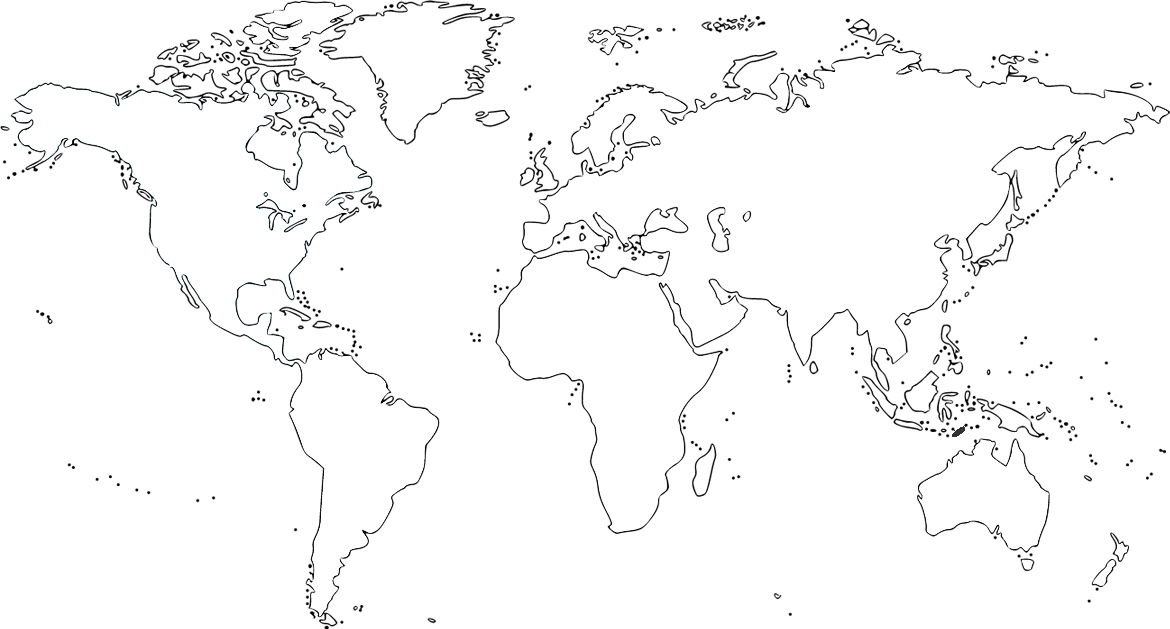
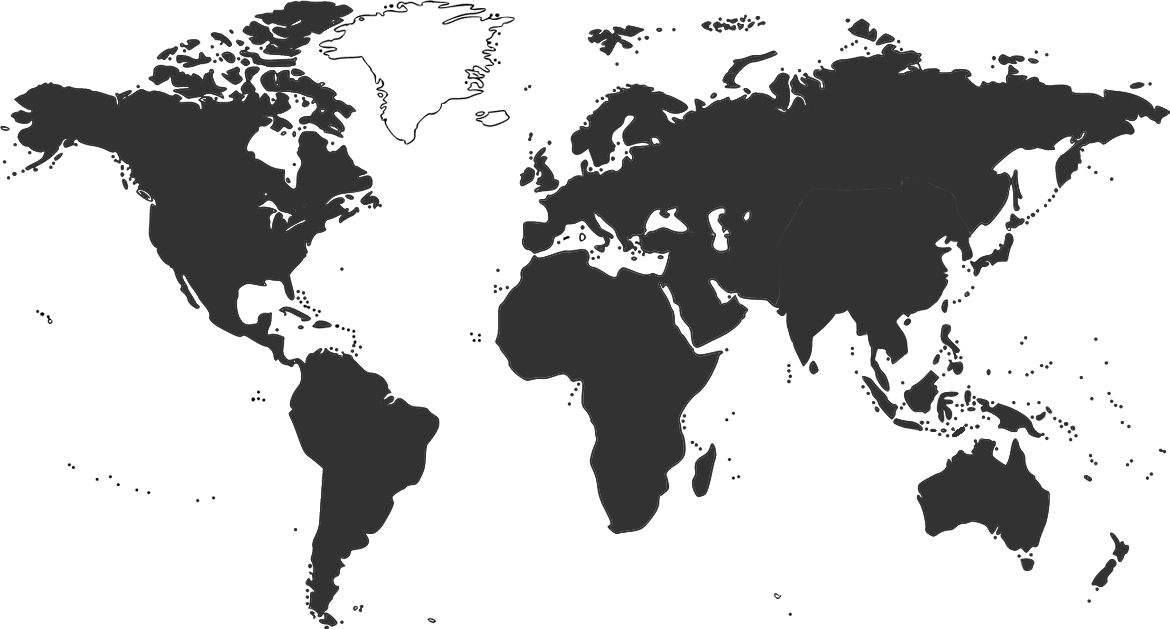
Developed clickable map

diff --git a/themes/igf/javascript/regionalmeetings.js b/themes/igf/javascript/regionalmeetings.js
@@ -6,10 +6,7 @@ $(document).ready(function() {
 
 
 
-	$('.region').on('click', function(){
-		var id = $(this).data('id');
-		loadRegion(id);
-	})
+	
 
 	function loadRegion(id){
 		url = $('#Regional').data('url') +'getMeetingsData';
@@ -19,45 +16,43 @@ $(document).ready(function() {
 			$('html').css('cursor', 'default');
 		});
 	}
-	$('.country').hover(
-		function(){
-			var country = $(this).attr('id');
+
+	$('area').on('click', function(e){
+		e.preventDefault();
+		$('area').removeClass('active');
+		$('.country').fadeOut('fast');
+
+		$(this).addClass('active');
+		var id = $(this).data('id');
+		loadRegion(id);
+		var region = $(this).attr('continent');
+		$('.country').fadeOut('fast');
+		var highlight = $('img[id*=' + region + ']');
+		highlight.fadeIn('fast');
+	});
+
+	// $('area').hover(function() {
+	
 		
-			$(this).find('img').attr('src', 'themes/igf/images/map/hover/'+country+'.png');
-		},
-		function(){
-			var country = $(this).attr('id');
-			if(!$(this).hasClass('active')){
-				$(this).find('img').attr('src', 'themes/igf/images/map/default/'+country+'.png');
-			}
-		});
-
-	$('.country').on('click',
-		function(){
-			var country = $(this).attr('id');
-			$('.country').each(function(i){
-				if($(this).attr('id') != country){
-					$(this).find('img').attr('src', 'themes/igf/images/map/default/'+$(this).attr('id')+'.png');
-				}
-			})
-			$(this).find('img').attr('src', 'themes/igf/images/map/hover/'+country+'.png');
-			$(this).addClass('active');
-		});
-
-
-
-
-	//africa
-	// $('#africa').on('hover', function(){
-	// 	$(this).find('img').attr('src', 'themes/igf/images/map/hover/africa.png');
-	// },
-	// function(){
-	// 	$(this).find('img').attr('src', 'themes/igf/images/map/default/africa.png');
+	// 	var region = $(this).attr('continent');
+	// 	var highlight = $('img[id*=' + region + ']');
+	// 	highlight.fadeIn('fast');
+		
+	// 	},
+	// 	function(){
+	// 		if($(this).hasClass('active') == false){
+	// 		$(this).mouseout(function() {
+	// 			highlight.fadeOut('fast');
+	// 		});
+	// 	}
+	// 	//console.log(highlight);
+		
 	// });
 
-	// $('#africa').on('click', function(){
-	// 	$(this).find('img').attr('src', 'themes/igf/images/map/hover/africa.png');
-	// });
+	
+
+
+
 	
 
 

diff --git a/themes/igf/css/layout.css b/themes/igf/css/layout.css
@@ -207,11 +207,20 @@ b { font-weight: 500; }
 #Regional #Regional-Meetings .regional-tile a, #Regional #Regional-Meetings .regional-tile p, #Regional #Regional-Meetings .regional-tile h4 { word-wrap: break-word; }
 #Regional #Regional-Meetings .regional-tile h4 { margin-top: 0px; font-family: Georgia, serif; color: #414141; }
 #Regional #Regional-Meetings .regional-tile.first { margin-left: 0px; }
-#Regional #map { position: relative; }
-#Regional #map .country { position: absolute; top: 0px; left: 0px; }
-#Regional #map .country#africa { left: 482px; top: 222px; }
-#Regional #map .country#asia { left: 759px; top: 170px; }
-#Regional #map .country#south-america { left: 283px; top: 334px; }
+#Regional #map { z-index: 1; position: relative; /*	&#africa{
+		left:482px;
+		top:222px;
+	}
+	&#asia{
+		left:759px;
+		top:170px;
+	}
+	&#south-america{
+		left:283px;
+		top:334px;
+	}*/ }
+#Regional #map map { z-index: 3 area; z-index-cursor: pointer !important; }
+#Regional #map .country { z-index: 2; display: none; position: absolute; top: 0px; left: 0px; }
 
 /* About Page ----------------------------------------------------- */
 #AboutPage #contentWrap { margin-top: 30px; margin-bottom: 30px; border: 1px solid #d8d8d8; padding: 0px; }

diff --git a/themes/igf/scss/layout.scss b/themes/igf/scss/layout.scss
@@ -935,14 +935,27 @@ b{
 	}
 
 	#map{
+		z-index: 1;
 		position: relative;
 
-		.country{
+		
 
+		map{
+			z-index: 3
+			area{
+				cursor: pointer !important;
+			}
+
+		}
+		
+		.country{
+			z-index: 2;
+			display:none;
 			position: absolute;
 			top:0px;
 			left:0px;
-			&#africa{
+		}
+		/*	&#africa{
 				left:482px;
 				top:222px;
 			}
@@ -953,8 +966,8 @@ b{
 			&#south-america{
 				left:283px;
 				top:334px;
-			}
-		}
+			}*/
+		
 	}
 
 

diff --git a/mysite/code/controllers/RegionalNationalController.php b/mysite/code/controllers/RegionalNationalController.php
@@ -75,6 +75,16 @@ class RegionalNationalController extends Page_Controller{
 		
 	}
 
+	public function getRegionIDs(){
+		$regions = RNRegion::get();
+		$list = array();
+		foreach ($regions as $region) {
+			$title = str_replace(' ', '', $region->Title);
+			$list[$region->Title] = $region->ID;
+		}
+		return new ArrayData($list);
+	}
+
 
 	
 
